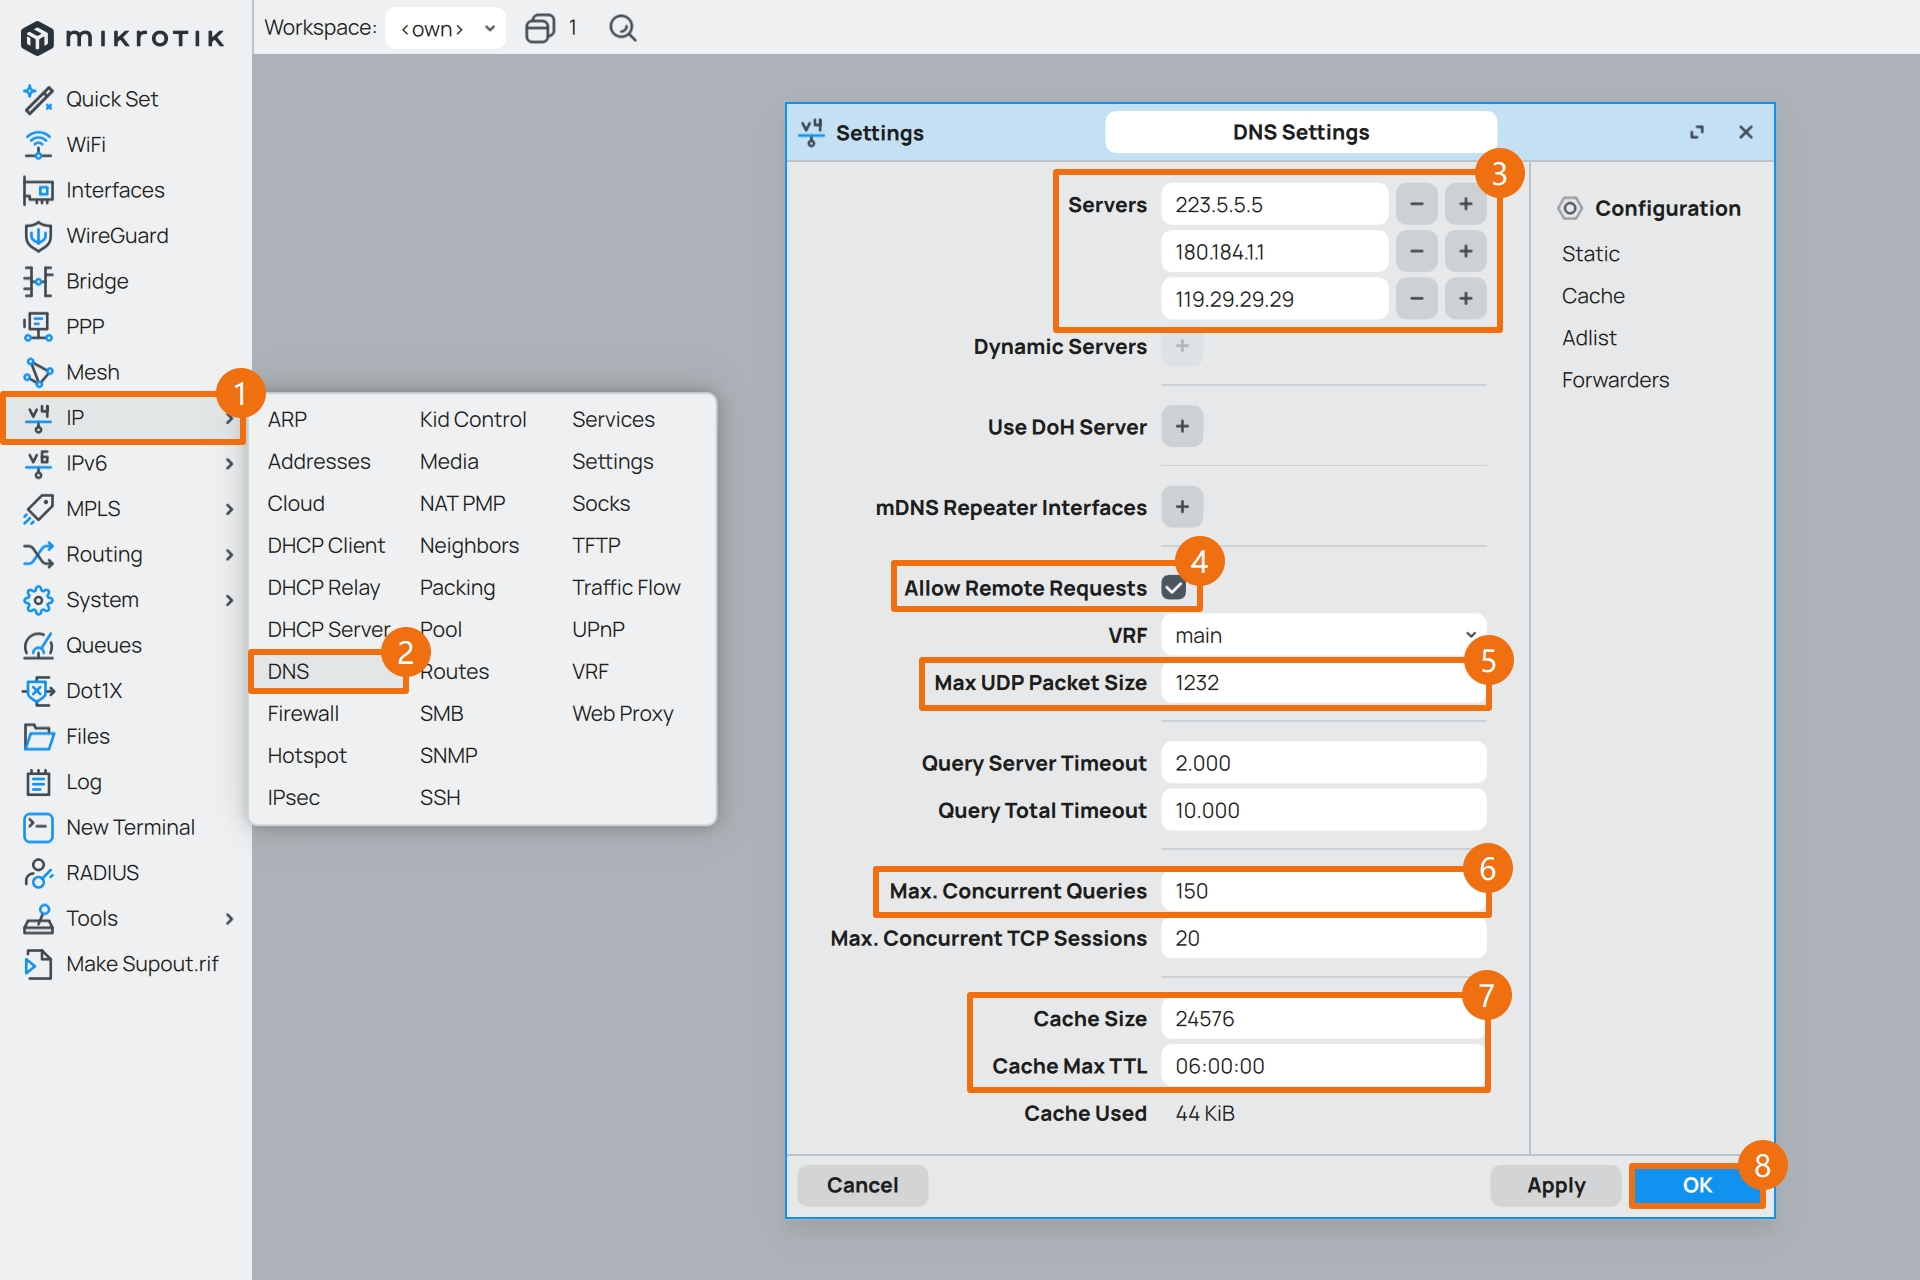
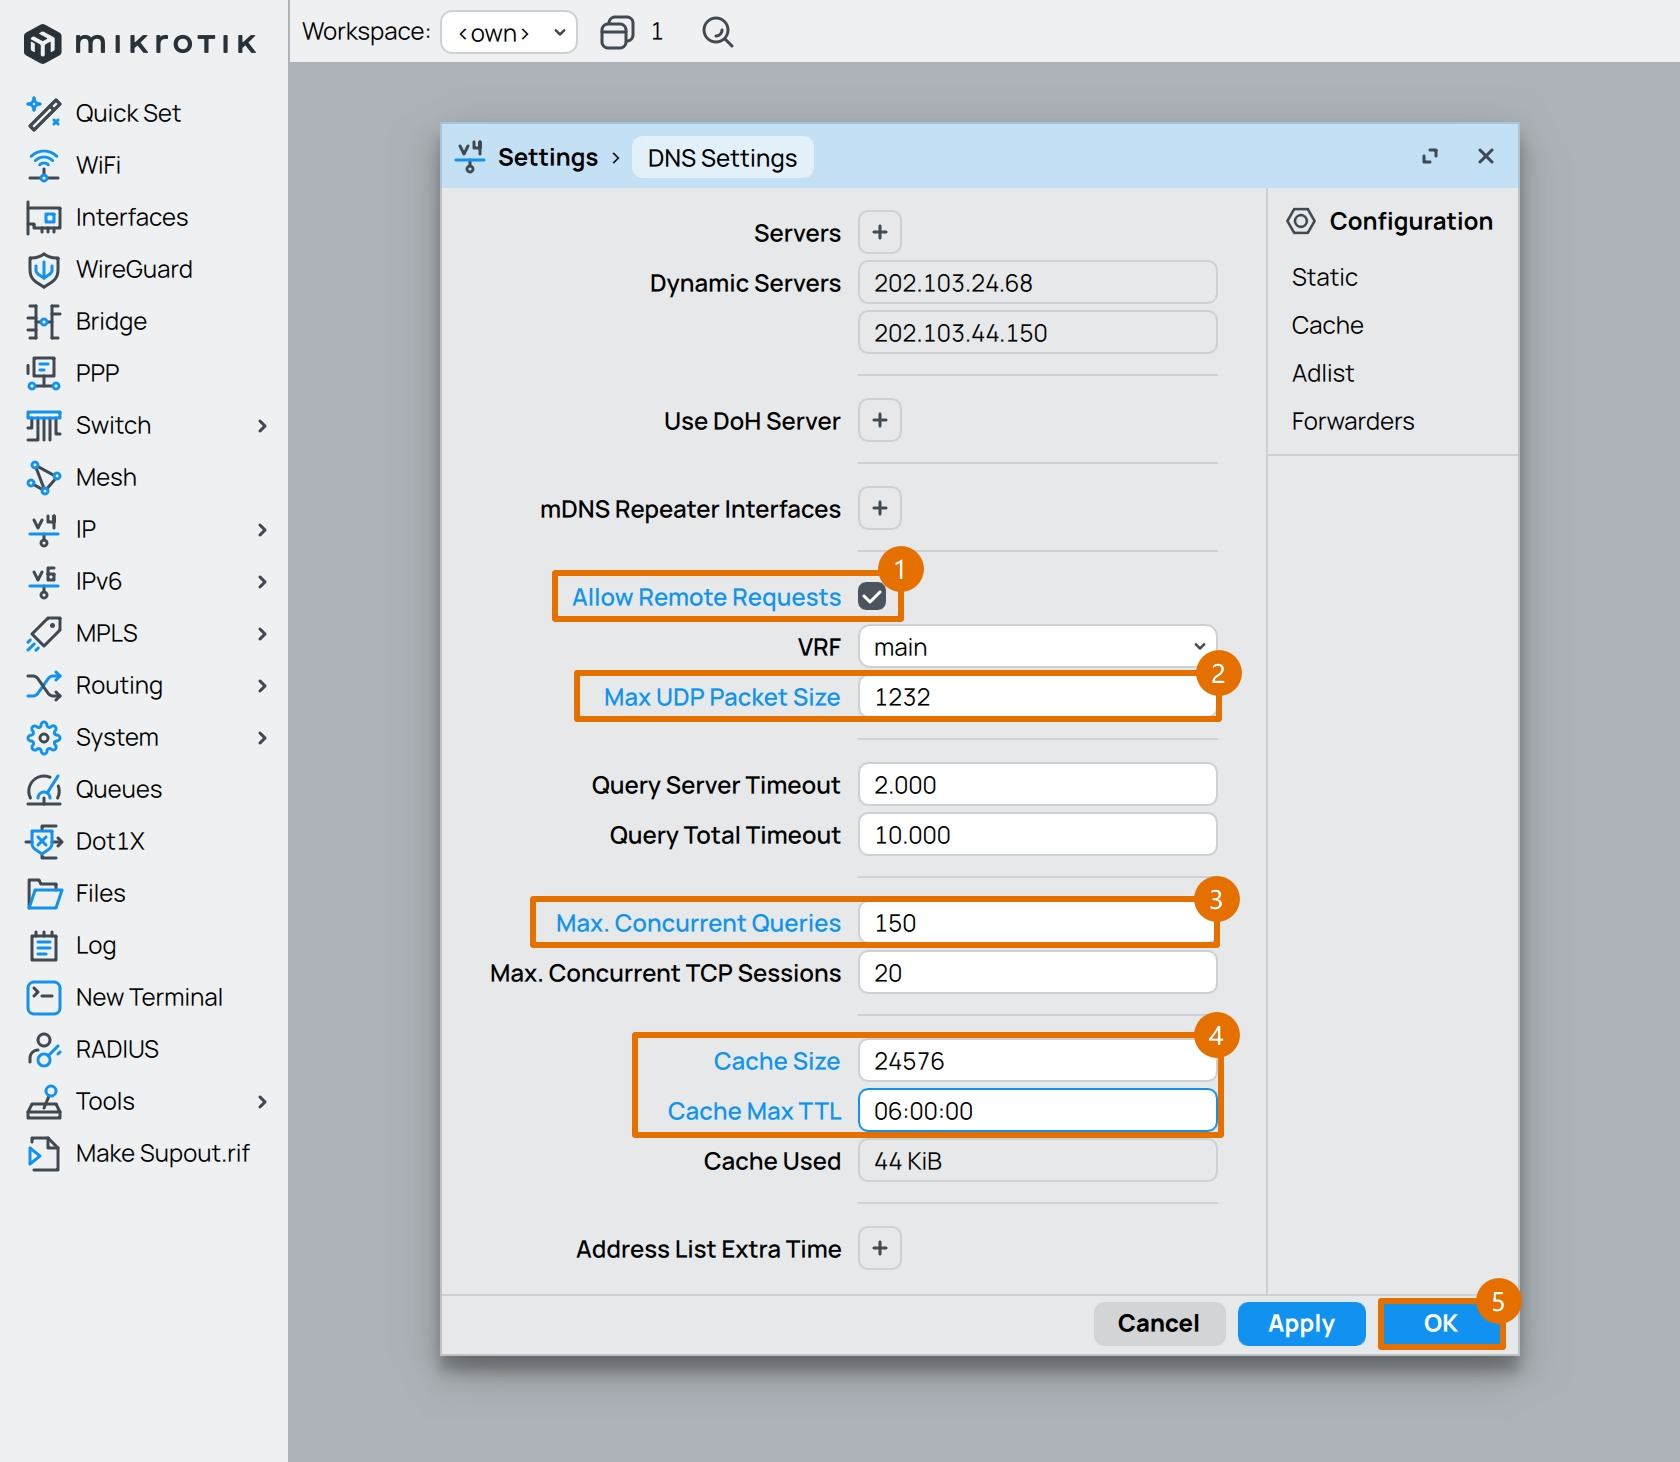
更新 DNS 说明

diff --git a/03.设置DNS.md b/03.设置DNS.md
@@ -2,26 +2,39 @@
 
 在上一篇文章 [02.设置网络接口](./02.设置网络接口.md) 中，已经设置了各网络接口，现在开始设置系统 DNS 。  
 
-### 1.1.使用公共 DNS 服务器
+### 1.1.设置 DNS 服务器
 
 使用 Winbox 登录 RouterOS ，点击左侧导航 `IP` 菜单的子菜单 `DNS` ，并修改参数。  
+
+若之前步骤中勾选了 `Use Peer DNS` 选项，当 PPPoE 拨号成功后，上游运营商下发的 DNS 服务器将在 `Dynamic Servers` 中展示。  
+
+此时，无需额外手动配置自定义 DNS 服务器。  
+
+![查看RouterOS系统运营商DNS参数](img/p03/modify_system_dns_isp.jpeg)
+
+若之前步骤中未勾选 `Use Peer DNS` 选项，则需在 `Servers` 处填写自定义 DNS 服务器，比如阿里云公共 DNS `223.5.5.5` 。  
 
 |参数|值|
 |--|--|
 |Servers|`223.5.5.5` <br> `180.184.1.1` <br> `119.29.29.29`|
+
+![调整RouterOS系统DNS参数](img/p03/modify_system_dns_custom.jpeg)
+
+### 1.2.设置 DNS 其他参数
+
+`Allow Remote Requests`  **必须勾选** ，其作用是允许内网设备通过 RouterOS 地址来进行 DNS 查询。  
+
+|参数|值|
+|--|--|
 |Allow Remote Requests| **必须勾选** |
 |Max UDP Packet Size|`1232`|
 |Max. Concurrent Queries|`150`|
 |Cache Size|`24576`|
 |Cache Max TTL|`06:00:00`|
 
-`Servers` 处可填写国内知名的 DNS 服务提供商，比如阿里云公共 DNS `223.5.5.5` 。  
-
-`Allow Remote Requests`  **必须勾选** ，其作用是允许内网设备通过 RouterOS 地址来进行 DNS 查询。  
-
 ![调整RouterOS系统DNS参数](img/p03/modify_system_dns.jpeg)
 
-### 1.2.使用内网 DNS 服务器
+### 1.3.使用内网 DNS 服务器
 
 在根据我的系列文章 [Proxmox VE 折腾手记 - 06.PVE制作DNS服务器](https://gitee.com/callmer/pve_toss_notes/blob/master/06.PVE%E5%88%B6%E4%BD%9CDNS%E6%9C%8D%E5%8A%A1%E5%99%A8.md) 安装并配置了内网 DNS 服务器后，需要调整 RouterOS 的 DNS 配置。  
 
@@ -29,7 +42,7 @@
 
 ![修改RouterOS系统DNS](img/p03/system_dns_modify.jpeg)
 
-### 1.3.使用 DoH 服务器
+### 1.4.使用 DoH 服务器
 
 RouterOS 中的 DNS over HTTPS (DoH) 功能有效提升了 DNS 查询的安全性，不仅增强了隐私保护，还有效防止了 DNS 劫持和篡改。  
 
@@ -84,13 +97,16 @@ import name=mkcert passphrase="" file-name=mkcert
 ## 阿里云公共DNS
 https://dns.alidns.com/dns-query
 
+## 360 安全DNS
+https://doh.360.cn/dns-query
+
 ## DNSPod Public DNS
 https://doh.pub/dns-query
 ```
 
 ![设置RouterOS系统DoH](img/p03/system_doh_modify.jpeg)
 
-### 1.4.使用 Adlist 广告列表
+### 1.5.使用 Adlist 广告列表
 
 RouterOS 支持 `Domain` 格式的广告屏蔽列表，该列表将加载至 DNS Cache 中，对于命中列表的 DNS 请求将返回 `0.0.0.0` 解析结果。  
 
@@ -118,6 +134,14 @@ https://neodev.team/host
 
 ```txt
 ## 列表名称
+AdBlock DNS Filters - 用于拦截广告域名
+
+## 黑名单链接
+https://raw.githubusercontent.com/217heidai/adblockfilters/main/rules/adblockhosts.txt
+```
+
+```txt
+## 列表名称
 Malicious URL Blocklist - 用于拦截恶意域名
 
 ## 黑名单链接
@@ -126,7 +150,7 @@ https://urlhaus-filter.pages.dev/urlhaus-filter-hosts.txt
 
 ![设置RouterOS系统Adlist](img/p03/system_adlist_modify.jpeg)
 
-### 1.5.设置 DNS 黑洞
+### 1.6.设置 DNS 黑洞
 
 DNS 黑洞是一组静态解析地址，基于 [RFC6303 - Locally Served DNS Zones](https://www.rfc-editor.org/rfc/rfc6303) 和 [RFC6761 - Special-Use Domain Names](https://www.rfc-editor.org/rfc/rfc6761.html) 创建。  
 

diff --git a/00.PVE下安装系统.md b/00.PVE下安装系统.md
@@ -14,10 +14,6 @@
 
 ![下载RouterOS](img/p00/dl_ros.jpeg)
 
-### 镜像校验信息：
-
-![下载RouterOS校验](img/p00/dl_ros_hash.jpeg)
-
 ## 1.创建 RouterOS 虚拟机
 
 ### 1.1.常规
@@ -126,7 +122,7 @@ $ mkdir -p /tmp/RouterOS
 $ cd /tmp/RouterOS
 
 ## 下载 RouterOS 镜像文件
-$ curl -LR -O https://download.mikrotik.com/routeros/7.18/chr-7.18.img.zip
+$ curl -LR -O https://download.mikrotik.com/routeros/7.20/chr-7.20.img.zip
 ```
 
 镜像文件下载完成后，检查其 `hash` 信息。  
@@ -136,10 +132,10 @@ $ curl -LR -O https://download.mikrotik.com/routeros/7.18/chr-7.18.img.zip
 $ ls -lah
 
 ## 计算文件 hash
-$ sha256sum chr-7.18.img.zip
+$ sha256sum chr-7.20.img.zip
 
 #### 文件 hash 示例输出
-2821514d203667113c12b85bb93fe7b1125369150a52b526c196be539df2c132  chr-7.18.img.zip
+d2f68597f12415ff35093909152ab7567e81c97d2eefb1a4658becb8f82b83b0  chr-7.20.img.zip
 ```
 
 将得到的 `hash` 值与官网提供的校验信息进行对比，确认无误后，再进行后续步骤。  
@@ -150,7 +146,7 @@ $ sha256sum chr-7.18.img.zip
 
 ```bash
 ## 将镜像文件解压缩
-$ unzip -q chr-7.18.img.zip
+$ unzip -q chr-7.20.img.zip
 ```
 
 ### 3.2.导入镜像文件
@@ -161,7 +157,7 @@ $ unzip -q chr-7.18.img.zip
 
 ```bash
 ## 将 img 镜像导入虚拟机中
-$ qm importdisk 101 chr-7.18.img local-lvm
+$ qm importdisk 101 chr-7.20.img local-lvm
 
 #### img 镜像导入示例输出
 unused0: successfully imported disk 'local-lvm:vm-101-disk-0'
